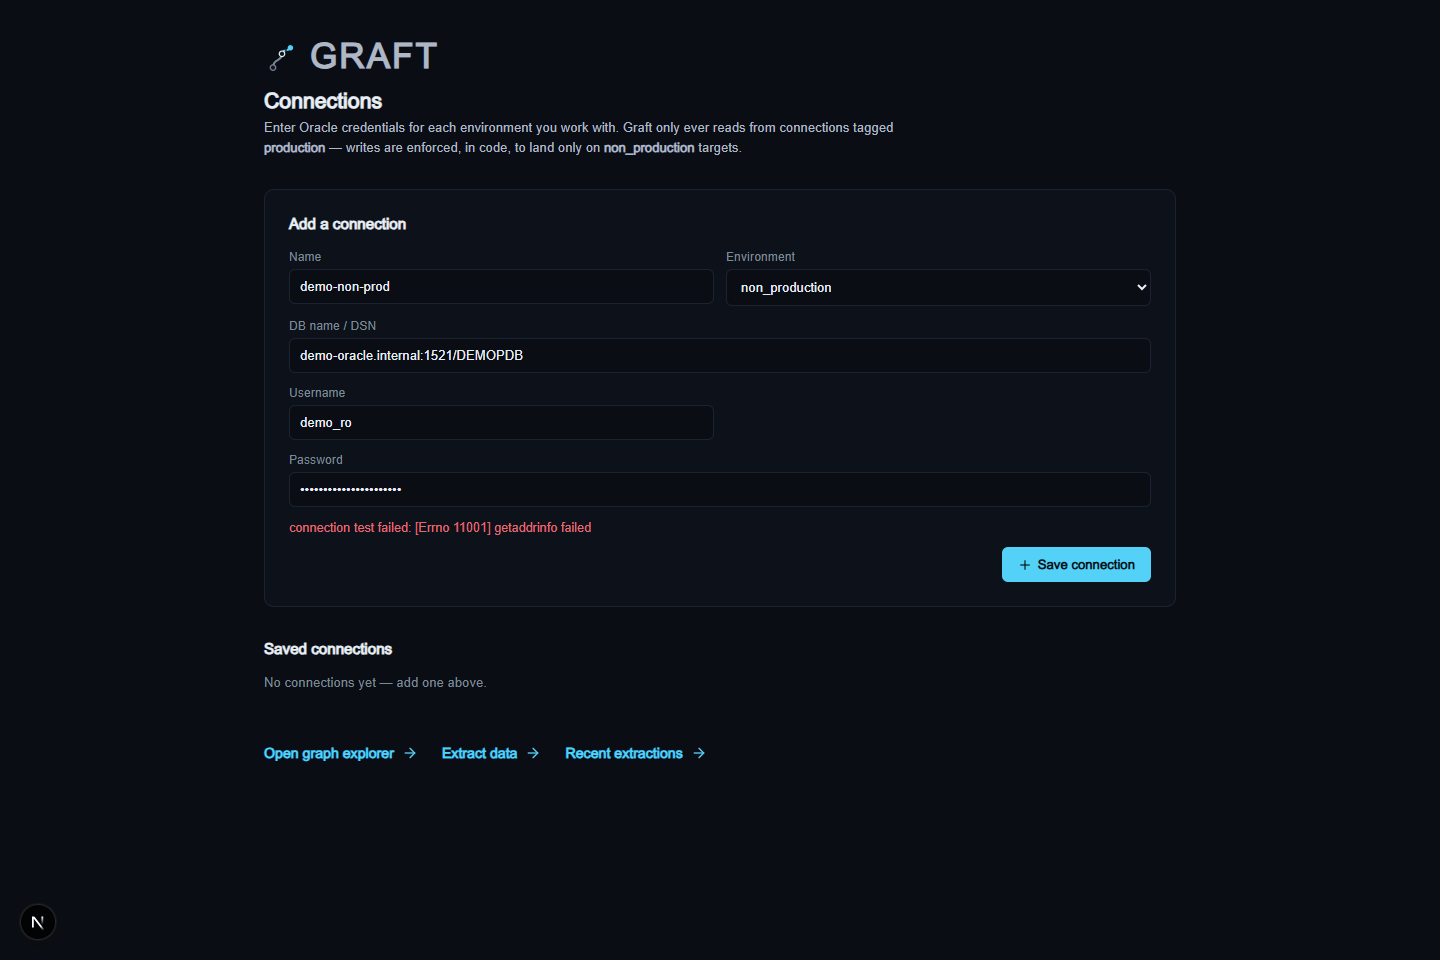
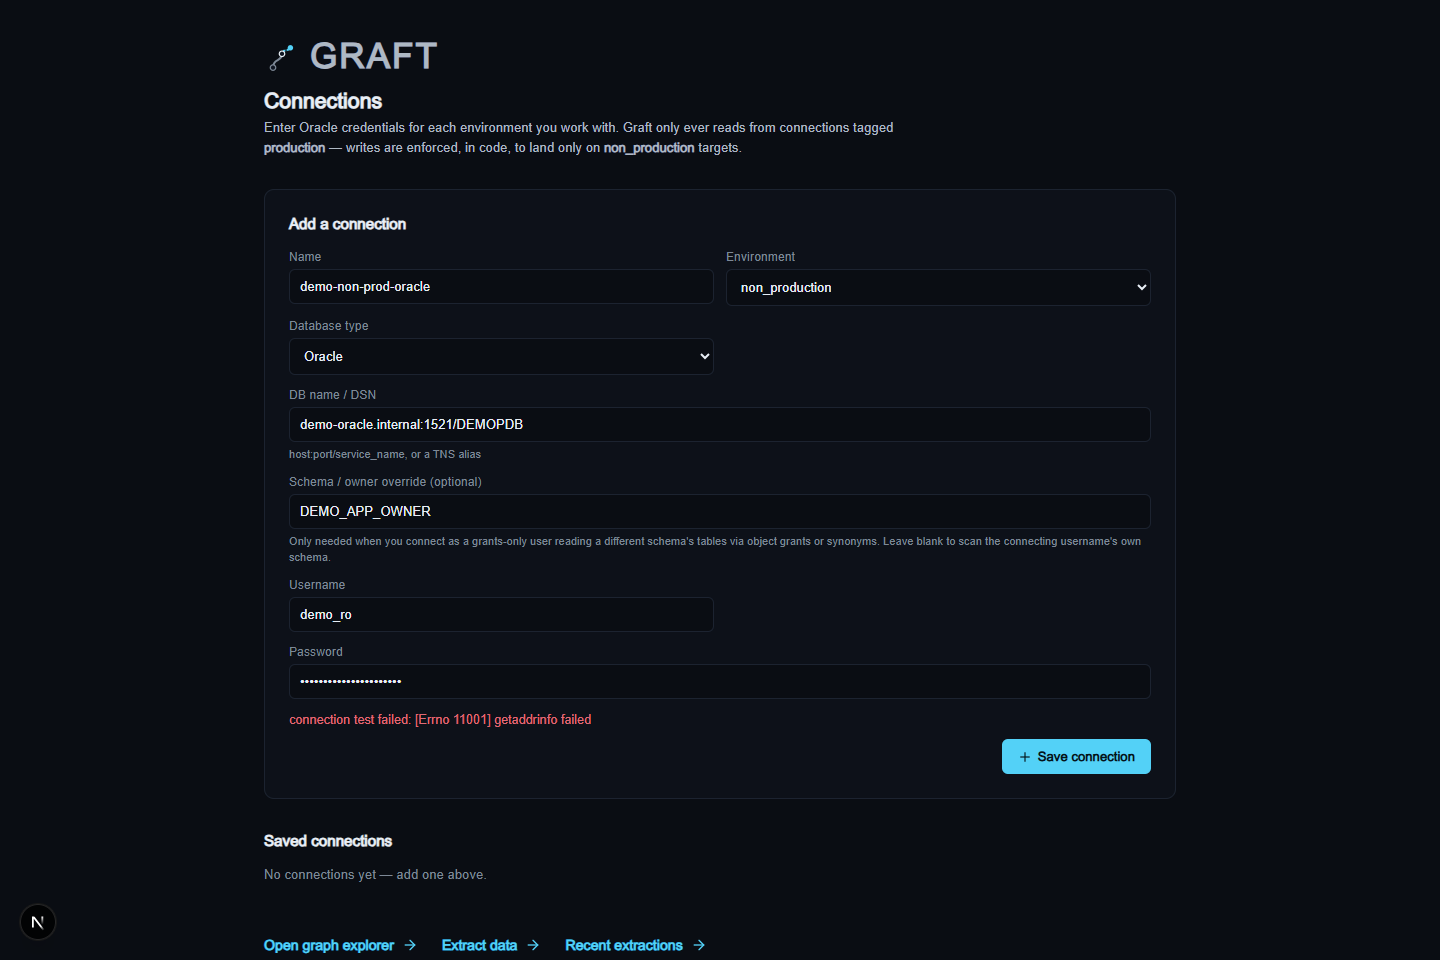
Update Graft case study with multi-database and scale features
Adds Oracle+MySQL dialect support, Graph Explorer focus mode (built for
schemas running to thousands of tables), reinforced evidence-backed
discovery and depth-budget enforcement, correctable edge review, and
canvas/connection polish (zoom, collapsible legend, schema override,
plain-language manifest/plan text). New screenshots for the MySQL
connection form and focus mode, from Graft's own synthetic fixture only.

diff --git a/graft.html b/graft.html
@@ -4,7 +4,7 @@
     <meta charset="utf-8">
     <meta name="viewport" content="width=device-width, initial-scale=1">
     <title>Graft Case Study - Justice Gnanamuttu</title>
-    <meta name="description" content="Graft case study: an Oracle relationship-discovery and safe test-data-provisioning tool that maps live database relationships and generates reviewable extraction scripts for a single business entity.">
+    <meta name="description" content="Graft case study: an Oracle and MySQL relationship-discovery and safe test-data-provisioning tool that maps live database relationships and generates reviewable extraction scripts for a single business entity.">
     <link rel="icon" href="assets/mockflow-mark.svg" type="image/svg+xml">
     <link rel="preconnect" href="https://fonts.googleapis.com">
     <link rel="preconnect" href="https://fonts.gstatic.com" crossorigin>
@@ -31,15 +31,15 @@
       <section class="detail-hero">
         <div>
           <a class="breadcrumb" href="index.html">Back to portfolio</a>
-          <p class="eyebrow">Oracle relationship discovery &amp; safe test data</p>
+          <p class="eyebrow">Relationship discovery &amp; safe test data</p>
           <h1>Graft</h1>
-          <p class="lead">An Oracle relationship-discovery and safe test-data-provisioning tool. Graft maps real database relationships from live metadata, then generates a reviewable SQL script — or runs a guarded live copy — that pulls one complete business entity out of production and into a non-production environment, instead of testers manually and blindly copying data between environments.</p>
+          <p class="lead">An Oracle and MySQL relationship-discovery and safe test-data-provisioning tool. Graft maps real database relationships from live metadata, then generates a reviewable SQL script — or runs a guarded live copy — that pulls one complete business entity out of production and into a non-production environment, instead of testers manually and blindly copying data between environments.</p>
           <div class="button-row">
             <a class="button primary" href="#features">Explore features</a>
             <a class="button" href="#setup">Setup and architecture</a>
           </div>
           <div class="stat-grid">
-            <article class="stat"><strong>Oracle</strong><span>data dictionary discovery</span></article>
+            <article class="stat"><strong>Oracle + MySQL</strong><span>dialect-aware discovery</span></article>
             <article class="stat"><strong>Row-level</strong><span>closure across the graph</span></article>
             <article class="stat"><strong>Bounded</strong><span>budgets halt, never truncate</span></article>
             <article class="stat"><strong>Guarded</strong><span>code-level prod-write block</span></article>
@@ -53,12 +53,12 @@
           <div class="section-intro">
             <p class="eyebrow">Problem</p>
             <h2>Recreating one business entity for testing shouldn't require tribal knowledge of the schema.</h2>
-            <p>Enterprise Oracle databases often have thousands of interconnected tables. Production has complete, realistic data; staging, QA, and UAT environments drift stale over time. Manually figuring out which rows need to travel together to recreate one flight, order, or customer for testing is currently manual, error-prone, slow, and dependent on whoever happens to know the schema best.</p>
+            <p>Enterprise Oracle and MySQL databases often have thousands of interconnected tables. Production has complete, realistic data; staging, QA, and UAT environments drift stale over time. Manually figuring out which rows need to travel together to recreate one flight, order, or customer for testing is currently manual, error-prone, slow, and dependent on whoever happens to know the schema best.</p>
           </div>
           <article class="panel">
             <h3>What the tool solves</h3>
             <ul>
-              <li>Scans Oracle's data dictionary to discover declared foreign keys automatically, plus heuristic relationships surfaced for human review.</li>
+              <li>Scans Oracle's or MySQL's data dictionary to discover declared foreign keys automatically, plus heuristic relationships surfaced for human review.</li>
               <li>Builds a dependency graph from approved relationships and computes the full row-level closure for a chosen seed entity.</li>
               <li>Enforces hard row/table/depth budgets that halt and report rather than silently truncating a result set a tester might trust as complete.</li>
               <li>Generates a reviewable, downloadable SQL script, or executes a guarded live copy into a connection explicitly tagged non-production.</li>
@@ -72,16 +72,24 @@
         <div class="section-intro">
           <p class="eyebrow">Case-study snapshot</p>
           <h2>Why this matters for enterprise QA and data provisioning.</h2>
-          <p>Graft grew from a real production/non-production drift problem: proving which rows belong together to safely recreate one business entity, without a tester having to trust tribal schema knowledge or copy more than they should. The engine is deterministic end to end — discovery, closure, planning, and masking never depend on an LLM — with AI available only as a read-only, advisory layer for exploration.</p>
+          <p>Graft grew from a real production/non-production drift problem: proving which rows belong together to safely recreate one business entity, without a tester having to trust tribal schema knowledge or copy more than they should. The engine is deterministic end to end — discovery, closure, planning, and masking never depend on an LLM — with AI available only as a read-only, advisory layer for exploration. It has since been run against a real enterprise Oracle schema running to nearly two thousand tables, which directly shaped several of the features below.</p>
         </div>
         <div class="feature-list">
           <article class="panel">
-            <h3>Evidence-backed discovery</h3>
-            <p>Every relationship edge carries evidence — a constraint name, source line, view name, or statistic. An edge with no evidence is treated as a bug, not a lint warning.</p>
+            <h3>Evidence-backed discovery, tested under fire</h3>
+            <p>Every relationship edge carries evidence — a constraint name, source line, view name, or statistic. Discovered edges are now also cross-validated against the real scanned schema before they can become an approvable suggestion, closing a gap where a heuristic match could name a column that simply doesn't exist on the claimed table — a real failure mode caught and fixed against a production-scale schema, not a hypothetical.</p>
           </article>
           <article class="panel">
-            <h3>Bounded, never-silent extraction</h3>
-            <p>Row/table/depth budgets halt and report when an extraction would exceed them, rather than silently truncating a result set that looks complete but isn't.</p>
+            <h3>Bounded, never-silent extraction — actually enforced</h3>
+            <p>Row, table, and depth budgets halt and report when an extraction would exceed them, rather than silently truncating a result set that looks complete but isn't. The depth budget now correctly bounds optional child-table expansion while never limiting mandatory parent inclusion, so a tight budget can never quietly break referential integrity.</p>
+          </article>
+          <article class="panel">
+            <h3>Focus mode for schemas at real scale</h3>
+            <p>A live Oracle schema with close to two thousand tables makes an unscoped graph unusable to render or reason about. Selecting one or more tables now scopes the canvas, stats, and side panel to just those tables plus everything reachable upstream and downstream, with an optional hop limit for deeply interconnected schemas.</p>
+          </article>
+          <article class="panel">
+            <h3>Correctable human review</h3>
+            <p>An edge approved or rejected in error — often only discoverable once a real extraction hits it — can now be re-decided directly in the Graph Explorer instead of being a one-way decision.</p>
           </article>
           <article class="panel">
             <h3>Code-level prod-write guard</h3>
@@ -101,12 +109,16 @@
         </div>
         <div class="feature-list">
           <article class="panel">
+            <h3>Dialect-aware engine</h3>
+            <p>A dialect abstraction lets the same engine connect to, discover, and extract from either Oracle or MySQL. Scanning, closure, masking, and ETL are all dialect-aware under the hood, and the Connections screen adapts its form per database type — separate host/port/database fields for MySQL, DSN/TNS for Oracle.</p>
+          </article>
+          <article class="panel">
             <h3>Automated + heuristic discovery</h3>
             <p>Declared foreign keys are trusted immediately. Heuristic relationships — name similarity, view joins, PL/SQL static and dynamic analysis — are surfaced for human review and never auto-trusted.</p>
           </article>
           <article class="panel">
             <h3>Human-in-the-loop graph review</h3>
-            <p>A Next.js Graph Explorer canvas where suggested edges are approved or rejected before they become traversable. Approval itself is audited — who, when.</p>
+            <p>A Next.js Graph Explorer canvas where suggested edges are approved or rejected before they become traversable, and a past decision can be reset and re-made. Approval itself is audited — who, when.</p>
           </article>
           <article class="panel">
             <h3>Row-level closure engine</h3>
@@ -122,7 +134,7 @@
           </article>
           <article class="panel">
             <h3>Reviewable output</h3>
-            <p>Produces either a downloadable SQL script for manual review, or a guarded live execute against a connection explicitly tagged non-production — never against production.</p>
+            <p>Produces either a downloadable SQL script for manual review, or a guarded live execute against a connection explicitly tagged non-production — never against production. Manifest and plan output now carry plain-language explanations alongside the raw data.</p>
           </article>
           <article class="panel">
             <h3>Row lineage tracing</h3>
@@ -131,6 +143,10 @@
           <article class="panel">
             <h3>Advisory MCP server</h3>
             <p>Exposes the same discovery, closure, and planning primitives read-only to AI coding agents for "explain why this row is included" style questions — never write access.</p>
+          </article>
+          <article class="panel">
+            <h3>Canvas &amp; connection polish</h3>
+            <p>Zoom controls (25%-200%) and a collapsible legend keep the Graph Explorer usable on dense schemas. An Oracle connection can also specify a schema/owner override, for the common case of connecting as a grants-only user rather than the schema owner.</p>
           </article>
         </div>
       </section>
@@ -143,10 +159,17 @@
         </div>
         <div class="project-grid">
           <article class="project-card">
-            <img src="assets/graft-connections.png" alt="Graft connections screen with a non-production demo connection form and connection test result">
+            <img src="assets/graft-connections.png" alt="Graft connections screen with an Oracle non-production demo connection, schema/owner override field, and connection test result">
             <div class="body">
-              <h3>Connections</h3>
-              <p>Each saved connection is tagged production or non_production. Graft only ever reads from production; writes are enforced in code to land only on a non_production target.</p>
+              <h3>Connections — Oracle</h3>
+              <p>Each saved connection is tagged production or non_production. An optional schema/owner override covers connecting as a grants-only user reading a different schema's tables.</p>
+            </div>
+          </article>
+          <article class="project-card">
+            <img src="assets/graft-mysql.png" alt="Graft connections screen with the database type switched to MySQL, showing separate host, port, and database fields">
+            <div class="body">
+              <h3>Connections — MySQL</h3>
+              <p>Switching database type re-shapes the form to MySQL's own connection fields — separate host, port, and database name — behind the same dialect-aware engine as Oracle.</p>
             </div>
           </article>
           <article class="project-card">
@@ -154,6 +177,13 @@
             <div class="body">
               <h3>Graph Explorer</h3>
               <p>Every discovered table and edge, tiered by confidence from a declared foreign key down to an LLM suggestion, with suggested (non-FK) edges held out for explicit approval.</p>
+            </div>
+          </article>
+          <article class="project-card">
+            <img src="assets/graft-focus.png" alt="Graft graph explorer in focus mode, scoped to two selected tables and everything reachable within one hop">
+            <div class="body">
+              <h3>Graph Explorer — focus mode</h3>
+              <p>Scopes the canvas, stats, and side panel to selected tables plus everything reachable upstream and downstream, with an optional hop limit — built for schemas too large to render whole.</p>
             </div>
           </article>
           <article class="project-card">
@@ -182,7 +212,7 @@
           </div>
           <div class="panel architecture">
             <div class="flow-row">
-              <div class="flow-box"><strong>Scanner</strong><br>Reads Oracle's data dictionary into a versioned, drift-watermarked metadata snapshot.</div>
+              <div class="flow-box"><strong>Scanner</strong><br>Reads Oracle's or MySQL's data dictionary, through a shared dialect abstraction, into a versioned, drift-watermarked metadata snapshot.</div>
               <div class="flow-arrow">-&gt;</div>
               <div class="flow-box"><strong>Discovery</strong><br>Declared FKs plus heuristic sources, merged into one evidence-backed, confidence-tiered graph.</div>
             </div>
@@ -205,8 +235,8 @@
           <div class="panel">
             <h2>Setup and use</h2>
             <ol>
-              <li>Add a source and target connection, each explicitly tagged production or non_production.</li>
-              <li>Discover relationships and review the graph — approve or reject suggested (non-FK) edges before they become traversable.</li>
+              <li>Add a source and target connection — Oracle or MySQL — each explicitly tagged production or non_production.</li>
+              <li>Discover relationships and review the graph — approve, reject, or later re-decide suggested (non-FK) edges before they become traversable. On a large schema, use focus mode to scope the canvas to the tables that matter.</li>
               <li>Pick an anchor table and a seed — an exact key or a condition — to define the business entity.</li>
               <li>Configure budgets, lookup strategy, collision policy, and confirm masking rules for any sensitive columns.</li>
               <li>Compute the preview manifest and insert/delete plan, and trace any row's lineage back to the seed.</li>
@@ -218,6 +248,7 @@
             <div class="meta">
               <span>Python 3.12</span>
               <span>python-oracledb</span>
+              <span>PyMySQL</span>
               <span>NetworkX</span>
               <span>SQLAlchemy</span>
               <span>FastAPI</span>

diff --git a/index.html b/index.html
@@ -274,17 +274,17 @@
               <div class="tool-mark">GR</div>
               <div>
                 <div class="tool-name">Graft</div>
-                <div class="tool-badge">FastAPI + Next.js · Oracle metadata</div>
+                <div class="tool-badge">FastAPI + Next.js · Oracle + MySQL</div>
               </div>
             </div>
-            <p class="tool-desc">Oracle relationship-discovery and safe test-data-provisioning tool. Maps real database relationships from live metadata, then generates a reviewable SQL script — or runs a guarded live copy — for one complete business entity.</p>
+            <p class="tool-desc">Oracle and MySQL relationship-discovery and safe test-data-provisioning tool. Maps real database relationships from live metadata, then generates a reviewable SQL script — or runs a guarded live copy — for one complete business entity.</p>
             <div class="tag-row">
               <span class="mono-tag">FastAPI</span>
               <span class="mono-tag">Next.js 15</span>
               <span class="mono-tag">Oracle</span>
+              <span class="mono-tag">MySQL</span>
               <span class="mono-tag">NetworkX</span>
               <span class="mono-tag">FastMCP</span>
-              <span class="mono-tag">SQLAlchemy</span>
             </div>
             <a class="detail-link" href="graft.html">View full case study →</a>
           </div>